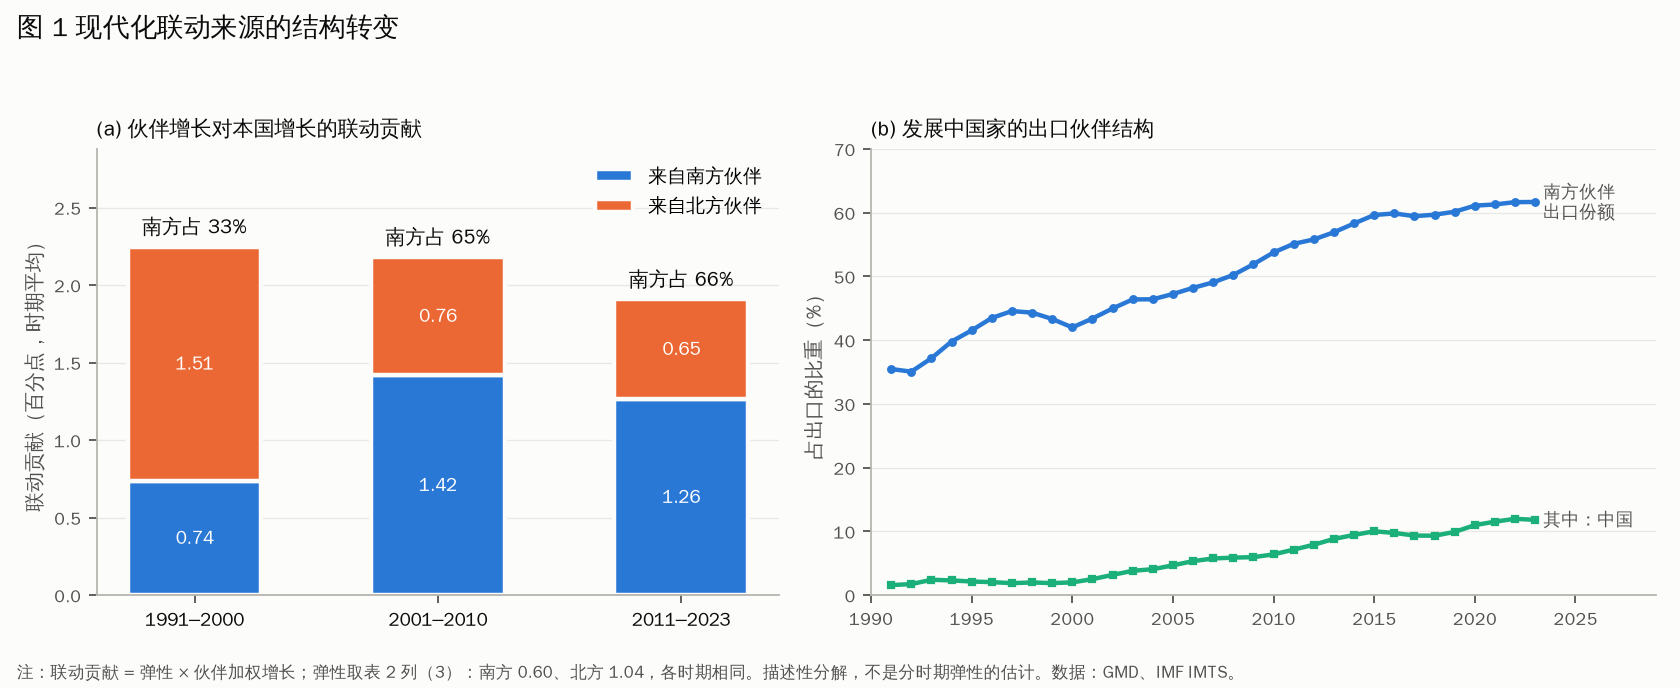
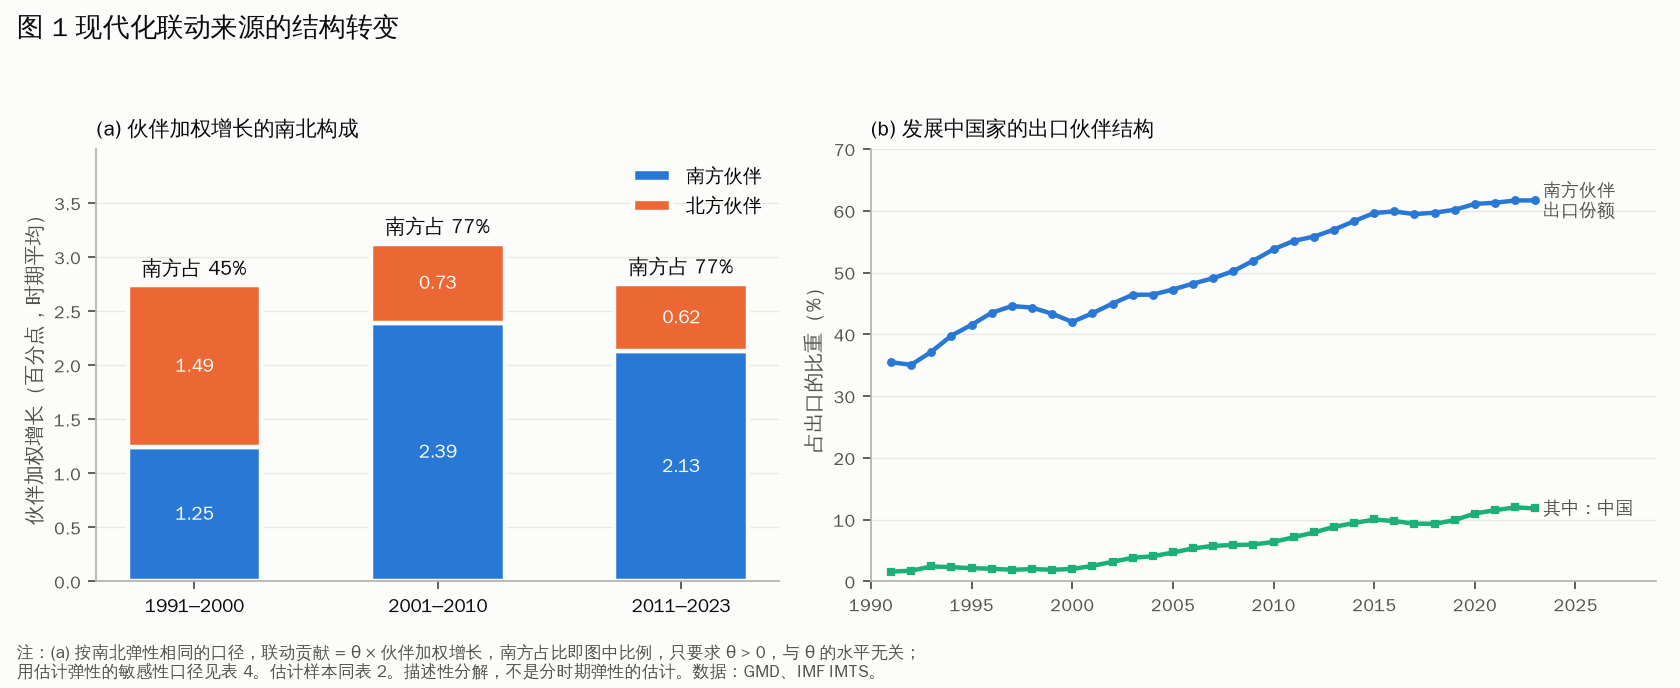
图 1(a) 与表 4 改用南北弹性相同的主口径（南方占比 45% → 77%，不使用 θ 值）；估计弹性口径（32% → 66%）改为敏感性结果；更正 46% 为 45%
Claude-Session: https://claude.ai/code/session_01FYoKaXrYZEmiyqRJMaVcEd

diff --git a/code/51_linkage_decomposition.py b/code/51_linkage_decomposition.py
@@ -2,9 +2,11 @@
 """
 51_linkage_decomposition.py —— 第十二轮的描述性分解（**不在登记中**，不是检验）。
 
-用登记 L4 模型（全时期）估出的 θ_S、θ_N，乘以各时期南方、北方伙伴加权增长的平均值，
-得到「伙伴增长对本国增长的联动贡献」中南方与北方的份额。
-前提：θ_S、θ_N 在各时期相同（L3 未发现联动弹性随时期上升）；因此这只是贡献来源的描述，不是分时期弹性的估计。
+主口径（2026-09-25 修订）：南北弹性相同。此时南方在联动贡献中的占比 = g^S / (g^S + g^N)，
+只取决于贸易份额与伙伴增长，只要求 θ > 0，与 θ 的水平无关。南北系数的大小不作比较（第十三、十四轮），
+所以正文分解不使用南北差异。
+敏感性口径：用登记 L4 模型（全时期）估出的 θ_S、θ_N 分别加权。
+两种口径都假定弹性在各时期相同（L3 未发现联动弹性随时期上升）；这是贡献来源的描述，不是分时期弹性的估计。
 输出：output/tables/tab39_linkage_decomposition.md
 """
 import numpy as np
@@ -24,13 +26,16 @@ print(f"θ_S = {tS:.4f}，θ_N = {tN:.4f}（与脚本 50 的 L4 相同）")
 s = d.reset_index()
 s["时期"] = pd.cut(s.year, [1990, 2000, 2010, 2023], labels=["1991–2000", "2001–2010", "2011–2023"])
 t = s.groupby("时期", observed=True)[["gN", "gS", "sCN"]].mean()
-t["北方贡献"] = tN * t.gN
-t["南方贡献"] = tS * t.gS
-t["南方占比"] = t.南方贡献 / (t.北方贡献 + t.南方贡献)
+t["南方占比（主：弹性相同）"] = t.gS / (t.gS + t.gN)
+t["北方贡献（敏感性）"] = tN * t.gN
+t["南方贡献（敏感性）"] = tS * t.gS
+t["南方占比（敏感性：估计弹性）"] = t["南方贡献（敏感性）"] / (t["北方贡献（敏感性）"] + t["南方贡献（敏感性）"])
 t = t.rename(columns={"gN": "北方伙伴加权增长", "gS": "南方伙伴加权增长", "sCN": "对华出口份额"})
 print(t.round(4).to_string())
-lines = ["# 表 39 描述性分解：增长联动的南北来源（不在登记中）", "",
-         f"θ_S = {tS:.4f}，θ_N = {tN:.4f}（登记 L4 模型，全时期）。贡献 = θ × 该时期伙伴加权增长的样本平均。", "",
+lines = ["# 表 39 描述性分解：增长联动的南北来源（论文表 4；不在登记中）", "",
+         "主口径：南北弹性相同，南方占比 = 南方伙伴加权增长 / 全部伙伴加权增长，只要求 θ > 0，与 θ 的水平无关。",
+         f"敏感性口径：用登记 L4 模型的估计弹性（θ_S = {tS:.4f}，θ_N = {tN:.4f}）分别加权；南北系数大小不作比较，只作敏感性参考。", "",
+         "估计样本：发展中国家，1991–2023 年（与表 2 相同）。伙伴加权增长为对数增长率的样本平均。", "",
          t.round(4).to_markdown(), "",
          "前提：弹性在各时期相同。它描述的是联动来源的构成变化，不是分时期弹性的估计。", ""]
 (TAB / "tab39_linkage_decomposition.md").write_text("\n".join(lines), encoding="utf-8")

diff --git a/code/52_linkage_paper_figures.py b/code/52_linkage_paper_figures.py
@@ -146,11 +146,11 @@ yr["cS"], yr["cN"] = tS * yr.gS * 100, tN * yr.gN * 100
 fig, (a1, a2) = plt.subplots(1, 2, figsize=(10.5, 4.3), gridspec_kw={"width_ratios": [1, 1.15]})
 style(a1)
 PER = [(1991, 2000), (2001, 2010), (2011, 2023)]
-cs = [yr.loc[p0:p1].cS.mean() for p0, p1 in PER]
-cn = [yr.loc[p0:p1].cN.mean() for p0, p1 in PER]
+cs = [dd[dd.year.between(p0, p1)].gS.mean() * 100 for p0, p1 in PER]       # 估计样本（与表 2、表 4 相同）
+cn = [dd[dd.year.between(p0, p1)].gN.mean() * 100 for p0, p1 in PER]
 xs_ = np.arange(len(PER))
-a1.bar(xs_, cs, width=0.55, color=C_S, edgecolor=SURF, linewidth=2, label="来自南方伙伴")
-a1.bar(xs_, cn, width=0.55, bottom=cs, color=C_N, edgecolor=SURF, linewidth=2, label="来自北方伙伴")
+a1.bar(xs_, cs, width=0.55, color=C_S, edgecolor=SURF, linewidth=2, label="南方伙伴")
+a1.bar(xs_, cn, width=0.55, bottom=cs, color=C_N, edgecolor=SURF, linewidth=2, label="北方伙伴")
 for k in range(len(PER)):
     a1.text(xs_[k], cs[k] / 2, f"{cs[k]:.2f}", ha="center", va="center", fontsize=8.5, color="#ffffff")
     a1.text(xs_[k], cs[k] + cn[k] / 2, f"{cn[k]:.2f}", ha="center", va="center", fontsize=8.5, color="#ffffff")
@@ -158,8 +158,8 @@ for k in range(len(PER)):
             fontsize=9, color=INK)
 a1.set_xticks(xs_, [f"{p0}–{p1}" for p0, p1 in PER], fontsize=8.5, color=INK)
 a1.set_ylim(0, max(np.add(cs, cn)) * 1.28)
-a1.set_ylabel("联动贡献（百分点，时期平均）", color=INK2, fontsize=9)
-a1.set_title("(a) 伙伴增长对本国增长的联动贡献", fontsize=9.5, color=INK, loc="left")
+a1.set_ylabel("伙伴加权增长（百分点，时期平均）", color=INK2, fontsize=9)
+a1.set_title("(a) 伙伴加权增长的南北构成", fontsize=9.5, color=INK, loc="left")
 a1.legend(loc="upper right", frameon=False, fontsize=8.5)
 style(a2)
 a2.plot(yr.index, yr.south * 100, color=C_S, lw=2, marker="o", ms=3)
@@ -171,8 +171,8 @@ a2.set_ylim(0, 70)
 a2.set_ylabel("占出口的比重（%）", color=INK2, fontsize=9)
 a2.set_title("(b) 发展中国家的出口伙伴结构", fontsize=9.5, color=INK, loc="left")
 save(fig, "lk_fig1_source_shift.png", "图 1 现代化联动来源的结构转变",
-     f"注：联动贡献 = 弹性 × 伙伴加权增长；弹性取表 2 列（3）：南方 {tS:.2f}、北方 {tN:.2f}，各时期相同。"
-     "描述性分解，不是分时期弹性的估计。数据：GMD、IMF IMTS。")
+     "注：(a) 按南北弹性相同的口径，联动贡献 = θ × 伙伴加权增长，南方占比即图中比例，只要求 θ > 0，与 θ 的水平无关；"
+     "\n用估计弹性的敏感性口径见表 4。估计样本同表 2。描述性分解，不是分时期弹性的估计。数据：GMD、IMF IMTS。")
 
 # ---------------------------------------------------------------------------
 # 三、图 2：联动系数

diff --git a/docs/cn_paper_outline.md b/docs/cn_paper_outline.md
@@ -24,8 +24,8 @@
         的联动（相互依存的状态，不主张传导的因果强度）      区域外伙伴 + 1997–2023 年 + 区域×年份 FE）
 命题二  南南联动存在：南方伙伴的增长同样带动本国增长   ← L4：θ_S = 0.60***；保守设定下区域外南方伙伴 0.29***（辅助项）
         （单位强度的南北差异移出核心论点）              ← θ_S − θ_N 点估计 −0.4 至 −0.5，控制共同冲击后 p = 0.064（第十四轮）
-命题三  联动来源的结构转型（**全文最稳健的证据**）：     ← 南北弹性相同的口径：南方占比 46% → 77%，只要求 θ > 0，与 θ 水平无关
-        南方关系密度与增长的上升，                     ← 用估计弹性的口径：33% → 65% → 66%
+命题三  联动来源的结构转型（**全文最稳健的证据**）：     ← 主口径（南北弹性相同）：南方占比 45% → 77% → 77%，只要求 θ > 0
+        南方关系密度与增长的上升，                     ← 敏感性（估计弹性）：32% → 65% → 66%，放在表 4
         使南方成为联动的主要来源                        ← 南方伙伴的出口份额 35% → 62%
         而且联动是多源的，没有形成单一新中心            ← M1：去掉中国后 0.64***；M2：去掉最大南方伙伴后 0.94***（第十三轮）
 命题四  联动的条件：联动以实际经济关系为载体，           ← 区域内联动占较大部分：上限约 0.6，保守约 0.2–0.3
@@ -120,11 +120,11 @@
 
 ### 第五部分：联动的结构转型（约 3,000 字）
 
-- **图 1(a)**：南方贡献占比由 33%（1991–2000）升至 65%（2001–2010）、66%（2011–2023）；
+- **图 1(a)**：伙伴加权增长的南北构成。按南北弹性相同的主口径，南方占比由 45%（1991–2000）升至 77%（2001–2010）、77%（2011–2023）。图中不使用任何 θ 值；
 - **图 1(b)**：南方伙伴的出口份额由 35% 升至 62%，其中对华份额由 2% 升至 12%；
 - **表 4**：分解表；
 - **解读**：联动强度没有变（L3），变的是关系结构，这正是结构转型的含义；
-- **两种口径**：若南北弹性相同，南方贡献占比只由伙伴加权增长决定，为 46% → 77%；若用估计的南北弹性，为 33% → 66%。两种口径下「南方成为主要来源」都成立，所以这一结论不依赖南北强度差异是否存在；
+- **主口径与敏感性**：正文的主分解采用南北弹性相同的口径（45% → 77%），与「南北系数大小不作比较」保持一致；用估计弹性的口径（32% → 66%）只作为敏感性结果放在表 4。两种口径下「南方成为主要来源」都成立；
 - **与 θ 的水平无关**：在南北弹性相同的口径下，南方占比只取决于贸易份额和伙伴增长，只要求 θ > 0。θ 从 0.6（上限）降到 0.2–0.3（保守），改变的是联动贡献的绝对量，不改变南方占比的变化方向。所以**关系结构的转变是全文最稳健的证据**，联动的存在是它获得意义的前提；
 - **联动是多源的**（第十三轮，表 4b）：
   - 从南方伙伴增长中拆出中国后，其余南方伙伴的联动为 0.64（区域×年份 FE 下 0.30）；
@@ -174,7 +174,7 @@
 
 | 编号 | 文件 | 内容 | 对应命题 |
 |---|---|---|---|
-| 图 1 | `output/figures/lk_fig1_source_shift.png` | (a) 联动贡献的南北来源（分时期）；(b) 出口伙伴结构（南方份额、对华份额） | 命题三 |
+| 图 1 | `output/figures/lk_fig1_source_shift.png` | (a) 伙伴加权增长的南北构成（主口径，不使用 θ 值）；(b) 出口伙伴结构（南方份额、对华份额） | 命题三 |
 | 图 2 | `output/figures/lk_fig2_coefficients.png` | 联动弹性：全部、南方、北方伙伴；两种 FE | 命题一、二 |
 | 图 3 | `output/figures/lk_fig3_robustness.png` | L1、L4 的稳健性（七种设定） | 命题一、二 |
 | 图 4 | `output/figures/lk_fig4_conditions.png` | (a) 深度贸易效应分时期；(b) 立场差异大的国家对之间的贸易变化 | 命题四 |
@@ -186,7 +186,7 @@
 | 表 1 | `output/tables/tab40_linkage_descriptives.md` | 描述统计 |
 | 表 2 | `output/tables/tab41_linkage_main.md` | 主回归（列 1–6） |
 | 表 3 | `output/tables/tab38_growth_linkage.md`（稳健性一节）、`data/clean/linkage_robustness.csv` | 稳健性 |
-| 表 4 | `output/tables/tab39_linkage_decomposition.md` | 联动来源分解 |
+| 表 4 | `output/tables/tab39_linkage_decomposition.md` | 联动来源分解：主口径（南北弹性相同）与敏感性口径（估计弹性） |
 | 附表 A3 | `output/tables/tab43_hierarchy_common_shocks.md` | 控制大宗商品与全球金融周期后的南北差异（第十四轮） |
 | 附表 A4 | `output/tables/tab44_linkage_sample_diagnostic.md` | 联动系数对样本的敏感性（探索性诊断） |
 | 表 2b | `output/tables/tab45_conservative_linkage.md` | 保守联动量级（第十五轮登记检验） |

diff --git a/docs/preliminary_report_linkage.md b/docs/preliminary_report_linkage.md
@@ -13,7 +13,7 @@
 
 1. 发展中国家的增长与贸易伙伴的增长显著同步：包含区域共同成分的上限约 0.6；同时排除区域共同冲击与转型初期后，仍有约 0.2–0.3 的联动（登记检验：0.32，95% 区间 0.11–0.53）。
 2. 南方伙伴的增长同样带动本国增长，弹性约 0.60；南南联动是多源的，不依赖中国或任何单一南方大国。
-3. 随着南南经贸关系的扩展，南方已成为联动的主要来源，其贡献占比由 1990 年代的约三分之一升至 21 世纪以来的约三分之二。
+3. 随着南南经贸关系的扩展，南方已成为联动的主要来源：按南北弹性相同的口径，南方在伙伴加权增长中的占比由 1990 年代的 45% 升至 21 世纪以来的 77%。
 4. 联动以实际经济关系为载体，区域性较强；贸易协定规则深度的独立作用有限，并逐步递减。
 
 其中最稳健的是第 3 项：在南北弹性相同的口径下，南方占比只取决于贸易份额和伙伴增长，与联动弹性的水平无关。
@@ -122,11 +122,14 @@
 
 ### 3. 联动来源的结构转型（表 4、图 1）
 
-| 时期 | 北方贡献（百分点） | 南方贡献（百分点） | 南方占比 |
-|---|---|---|---|
-| 1991–2000 | 1.51 | 0.74 | **33%** |
-| 2001–2010 | 0.76 | 1.42 | **65%** |
-| 2011–2023 | 0.65 | 1.26 | **66%** |
+| 时期 | 北方伙伴加权增长（百分点） | 南方伙伴加权增长（百分点） | **南方占比（主口径：弹性相同）** | 南方占比（敏感性：估计弹性） |
+|---|---|---|---|---|
+| 1991–2000 | 1.49 | 1.25 | **45%** | 32% |
+| 2001–2010 | 0.73 | 2.39 | **77%** | 65% |
+| 2011–2023 | 0.62 | 2.13 | **77%** | 66% |
+
+- **主口径**：南北弹性相同时，南方在联动贡献中的占比就是它在伙伴加权增长中的占比，只要求 θ > 0，与 θ 的水平无关。这与「南北系数大小不作比较」保持一致。
+- **敏感性口径**：用估计的南北弹性（0.60、1.04）加权，南方占比为 32% → 66%，结论方向相同。
 
 - 同期，南方伙伴在发展中国家出口中的份额由约 35% 升至约 62%，其中对华份额由约 2% 升至约 12%。
 - **性质**：描述性分解，假定弹性在各时期相同。登记检验 L3 没有发现联动弹性随时期上升，所以这一前提与数据不冲突。
@@ -161,7 +164,7 @@
 
 1. **联动存在**：各国现代化不是彼此独立的单元过程。发展中国家的增长与伙伴增长显著同步，扣除区域共同冲击后仍有约 0.2–0.3 的联动；文章描述相互依存的状态，不主张传导的因果强度。
 2. **南南联动存在**：带动并非只来自中心国家。南北单位强度的比较证据不足，不下结论。
-3. **结构转型**：南方已成为联动的主要来源，约占三分之二。变化来自关系结构（份额与增长），而不是联动强度。**南南联动是多源的**：拆出中国或各国最大的南方伙伴后，其余南方伙伴的联动依然稳健。
+3. **结构转型**：南方已成为联动的主要来源（主口径 45% → 77%；敏感性口径 32% → 66%）。变化来自关系结构（份额与增长），而不是联动强度。**南南联动是多源的**：拆出中国或各国最大的南方伙伴后，其余南方伙伴的联动依然稳健。
 4. **联动的条件**：以实际经济关系为载体，区域性强；制度规则需要落到实际关系上才能发挥作用。
 
 **理论含义**：世界现代化的联动结构正在由「中心带动」向「多元联动」转型。这为「关系性认知」提供了经验支撑，同时补充了它的条件。

diff --git a/output/tables/tab39_linkage_decomposition.md b/output/tables/tab39_linkage_decomposition.md
@@ -1,11 +1,14 @@
-# 表 39 描述性分解：增长联动的南北来源（不在登记中）
+# 表 39 描述性分解：增长联动的南北来源（论文表 4；不在登记中）
 
-θ_S = 0.5955，θ_N = 1.0395（登记 L4 模型，全时期）。贡献 = θ × 该时期伙伴加权增长的样本平均。
+主口径：南北弹性相同，南方占比 = 南方伙伴加权增长 / 全部伙伴加权增长，只要求 θ > 0，与 θ 的水平无关。
+敏感性口径：用登记 L4 模型的估计弹性（θ_S = 0.5955，θ_N = 1.0395）分别加权；南北系数大小不作比较，只作敏感性参考。
 
-| 时期      |   北方伙伴加权增长 |   南方伙伴加权增长 |   对华出口份额 |   北方贡献 |   南方贡献 |   南方占比 |
-|:----------|-------------------:|-------------------:|---------------:|-----------:|-----------:|-----------:|
-| 1991–2000 |             0.0149 |             0.0125 |         0.0197 |     0.0155 |     0.0074 |     0.3234 |
-| 2001–2010 |             0.0073 |             0.0239 |         0.0496 |     0.0076 |     0.0143 |     0.6524 |
-| 2011–2023 |             0.0062 |             0.0213 |         0.1002 |     0.0065 |     0.0127 |     0.661  |
+估计样本：发展中国家，1991–2023 年（与表 2 相同）。伙伴加权增长为对数增长率的样本平均。
+
+| 时期      |   北方伙伴加权增长 |   南方伙伴加权增长 |   对华出口份额 |   南方占比（主：弹性相同） |   北方贡献（敏感性） |   南方贡献（敏感性） |   南方占比（敏感性：估计弹性） |
+|:----------|-------------------:|-------------------:|---------------:|---------------------------:|---------------------:|---------------------:|-------------------------------:|
+| 1991–2000 |             0.0149 |             0.0125 |         0.0197 |                     0.4549 |               0.0155 |               0.0074 |                         0.3234 |
+| 2001–2010 |             0.0073 |             0.0239 |         0.0496 |                     0.7662 |               0.0076 |               0.0143 |                         0.6524 |
+| 2011–2023 |             0.0062 |             0.0213 |         0.1002 |                     0.7729 |               0.0065 |               0.0127 |                         0.661  |
 
 前提：弹性在各时期相同。它描述的是联动来源的构成变化，不是分时期弹性的估计。

diff --git a/docs/results_vs_prereg14.md b/docs/results_vs_prereg14.md
@@ -90,6 +90,6 @@
 1. **命题一、二的表述**：联动在国家 + 年份 FE 下稳健（这是原作者方程的设定）。区域×年份 FE 是更严格的检验：全样本下成立，但对 1991–1996 年转型经济体的样本很敏感；只用 1997 年以后的数据时，总体联动仍然显著，南南联动在 10% 水平上显著。原先的「稳健支持」要改为这种分层表述。
 2. **命题二中的「单位强度仍弱于北方」**：按事先约定，移出正文核心论点，改为讨论或脚注：点估计稳定在 −0.4 至 −0.5，但加入共同冲击控制后的登记检验未达显著（p = 0.064）。
 3. **命题三（来源多元化）不受影响**：
-   - 如果南北弹性相同，南方贡献占比只由伙伴加权增长决定：1990 年代约 46%，2001 年以后约 77%；
-   - 如果采用估计的南北弹性，则分别为 33% 和 65–66%。
+   - 如果南北弹性相同，南方贡献占比只由伙伴加权增长决定：1990 年代约 45%，2001 年以后约 77%（按估计样本精确计算为 45.5%，此前写作 46%，已更正）；
+   - 如果采用估计的南北弹性，则分别为 32% 和 65–66%。
    - 两种口径下，「南方成为联动的主要来源」都成立。

diff --git a/docs/results_vs_prereg15.md b/docs/results_vs_prereg15.md
@@ -46,7 +46,7 @@
 
 1. **命题一的表述**：发展中国家的增长与贸易伙伴的增长显著同步；扣除区域共同冲击和转型初期后，仍有约 0.2–0.3 的联动。「联动发展」对应的是相互依存的状态和同步性，文章不主张传导的因果强度。
 2. **命题三不受 θ 水平的影响**：
-   - 在南北弹性相同的口径下，南方占比（46% → 77%）只取决于贸易份额和伙伴增长，只要求 θ > 0；
+   - 在南北弹性相同的口径下，南方占比（45% → 77%）只取决于贸易份额和伙伴增长，只要求 θ > 0；
    - θ 从 0.6 降到 0.2–0.3，改变的是联动贡献的绝对量，不改变南方占比的变化方向。
    - 保守设定下，区域外南方伙伴的联动仍然显著（0.29，p = 0.003，辅助项）。
 3. **主张的重心下移**：文章最稳健的证据是**关系结构的转变**；联动的存在是它获得意义的前提；联动的量级需要保守表述。
